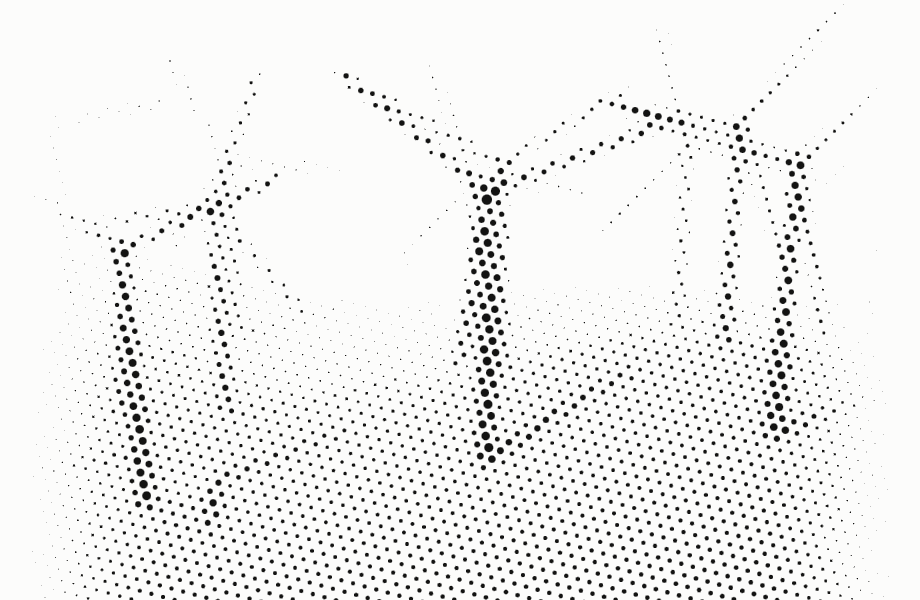
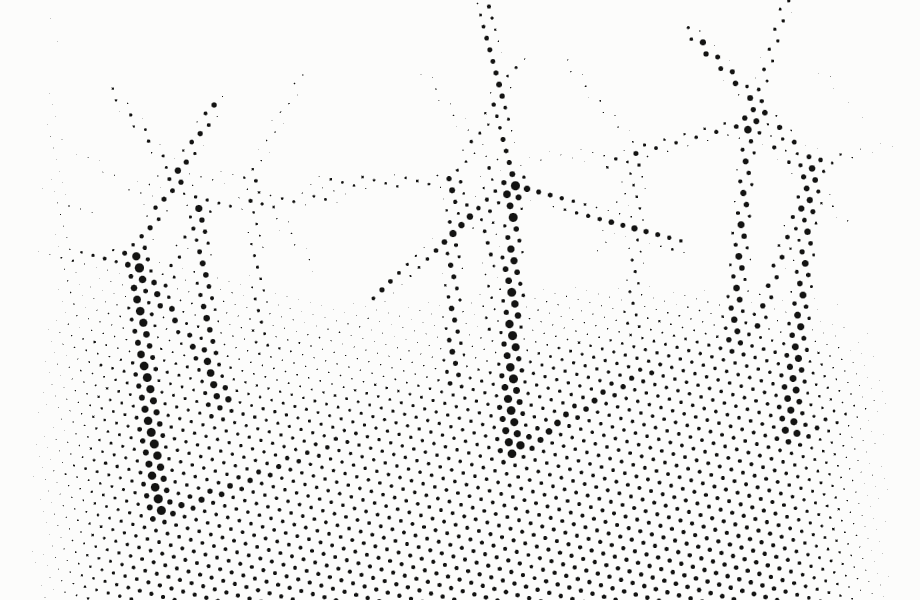
Fix ground() shadow flags and wind's rnd() ordering
- ridge and scatter meshes now set castShadow/receiveShadow, matching
  the plane and the local box()/cyl() helpers
- wind's ground() call moved to after the turbine loop so its ridge
  and scatter no longer consume rnd() draws before the turbines do
  (brief's original placement overridden per review)
- re-rendered all six subjects; re-judged port and datacenter depth
  after the shadow fix and after trying amp/flat on datacenter, per
  review finding 3

diff --git a/prototypes/dot-foundry.html b/prototypes/dot-foundry.html
@@ -53341,6 +53341,7 @@ function ground(g, TONE, rnd, o){
       const h = o.ridge * (0.45 + rnd()*0.55);
       const m = new THREE.Mesh(new THREE.BoxGeometry(w*1.35, h, 6), TONE[0]);
       m.position.set(-o.w/2 + i*w + w/2, h/2 - 1, far + (rnd()-.5)*5);
+      m.castShadow = m.receiveShadow = true;
       g.add(m);
     }
   }
@@ -53351,6 +53352,7 @@ function ground(g, TONE, rnd, o){
     const h = 1.2 + rnd()*3.4;
     const m = new THREE.Mesh(new THREE.BoxGeometry(1.6+rnd()*2.2, h, 1.6+rnd()*2.2), TONE[0]);
     m.position.set(Math.cos(a)*r, h/2, Math.sin(a)*r - o.d*0.12);
+    m.castShadow = m.receiveShadow = true;
     g.add(m);
   }
 }
@@ -53425,7 +53427,6 @@ function buildScene(id){
     }
     terr.computeVertexNormals();
     const t = new THREE.Mesh(terr, mat); t.receiveShadow = true; g.add(t);
-    ground(g, TONE, rnd, { w: 160, d: 130, plane: false, ridge: 6.0, scatter: 20 });
     for (let i=0;i<14;i++){
       const x = -34 + (i%5)*17 + (rnd()-.5)*6, z = -22 + Math.floor(i/5)*16 + (rnd()-.5)*6;
       const yb = Math.sin(x*.13)*1.5 + Math.cos(z*.16)*1.2 + Math.sin((x+z)*.07)*1.8;
@@ -53440,6 +53441,7 @@ function buildScene(id){
         bl.translateY(4.75); g.add(bl);
       }
     }
+    ground(g, TONE, rnd, { w: 160, d: 130, plane: false, ridge: 6.0, scatter: 20 });
   }
 
   if (id === 'robotics'){

diff --git a/prototypes/dot-render.html b/prototypes/dot-render.html
@@ -53197,6 +53197,7 @@ function ground(g, TONE, rnd, o){
       const h = o.ridge * (0.45 + rnd()*0.55);
       const m = new THREE.Mesh(new THREE.BoxGeometry(w*1.35, h, 6), TONE[0]);
       m.position.set(-o.w/2 + i*w + w/2, h/2 - 1, far + (rnd()-.5)*5);
+      m.castShadow = m.receiveShadow = true;
       g.add(m);
     }
   }
@@ -53207,6 +53208,7 @@ function ground(g, TONE, rnd, o){
     const h = 1.2 + rnd()*3.4;
     const m = new THREE.Mesh(new THREE.BoxGeometry(1.6+rnd()*2.2, h, 1.6+rnd()*2.2), TONE[0]);
     m.position.set(Math.cos(a)*r, h/2, Math.sin(a)*r - o.d*0.12);
+    m.castShadow = m.receiveShadow = true;
     g.add(m);
   }
 }
@@ -53281,7 +53283,6 @@ function buildScene(id){
     }
     terr.computeVertexNormals();
     const t = new THREE.Mesh(terr, mat); t.receiveShadow = true; g.add(t);
-    ground(g, TONE, rnd, { w: 160, d: 130, plane: false, ridge: 6.0, scatter: 20 });
     for (let i=0;i<14;i++){
       const x = -34 + (i%5)*17 + (rnd()-.5)*6, z = -22 + Math.floor(i/5)*16 + (rnd()-.5)*6;
       const yb = Math.sin(x*.13)*1.5 + Math.cos(z*.16)*1.2 + Math.sin((x+z)*.07)*1.8;
@@ -53296,6 +53297,7 @@ function buildScene(id){
         bl.translateY(4.75); g.add(bl);
       }
     }
+    ground(g, TONE, rnd, { w: 160, d: 130, plane: false, ridge: 6.0, scatter: 20 });
   }
 
   if (id === 'robotics'){

diff --git a/prototypes/dot-engine.js b/prototypes/dot-engine.js
@@ -138,6 +138,7 @@ function ground(g, TONE, rnd, o){
       const h = o.ridge * (0.45 + rnd()*0.55);
       const m = new THREE.Mesh(new THREE.BoxGeometry(w*1.35, h, 6), TONE[0]);
       m.position.set(-o.w/2 + i*w + w/2, h/2 - 1, far + (rnd()-.5)*5);
+      m.castShadow = m.receiveShadow = true;
       g.add(m);
     }
   }
@@ -148,6 +149,7 @@ function ground(g, TONE, rnd, o){
     const h = 1.2 + rnd()*3.4;
     const m = new THREE.Mesh(new THREE.BoxGeometry(1.6+rnd()*2.2, h, 1.6+rnd()*2.2), TONE[0]);
     m.position.set(Math.cos(a)*r, h/2, Math.sin(a)*r - o.d*0.12);
+    m.castShadow = m.receiveShadow = true;
     g.add(m);
   }
 }
@@ -222,7 +224,6 @@ function buildScene(id){
     }
     terr.computeVertexNormals();
     const t = new THREE.Mesh(terr, mat); t.receiveShadow = true; g.add(t);
-    ground(g, TONE, rnd, { w: 160, d: 130, plane: false, ridge: 6.0, scatter: 20 });
     for (let i=0;i<14;i++){
       const x = -34 + (i%5)*17 + (rnd()-.5)*6, z = -22 + Math.floor(i/5)*16 + (rnd()-.5)*6;
       const yb = Math.sin(x*.13)*1.5 + Math.cos(z*.16)*1.2 + Math.sin((x+z)*.07)*1.8;
@@ -237,6 +238,7 @@ function buildScene(id){
         bl.translateY(4.75); g.add(bl);
       }
     }
+    ground(g, TONE, rnd, { w: 160, d: 130, plane: false, ridge: 6.0, scatter: 20 });
   }
 
   if (id === 'robotics'){
